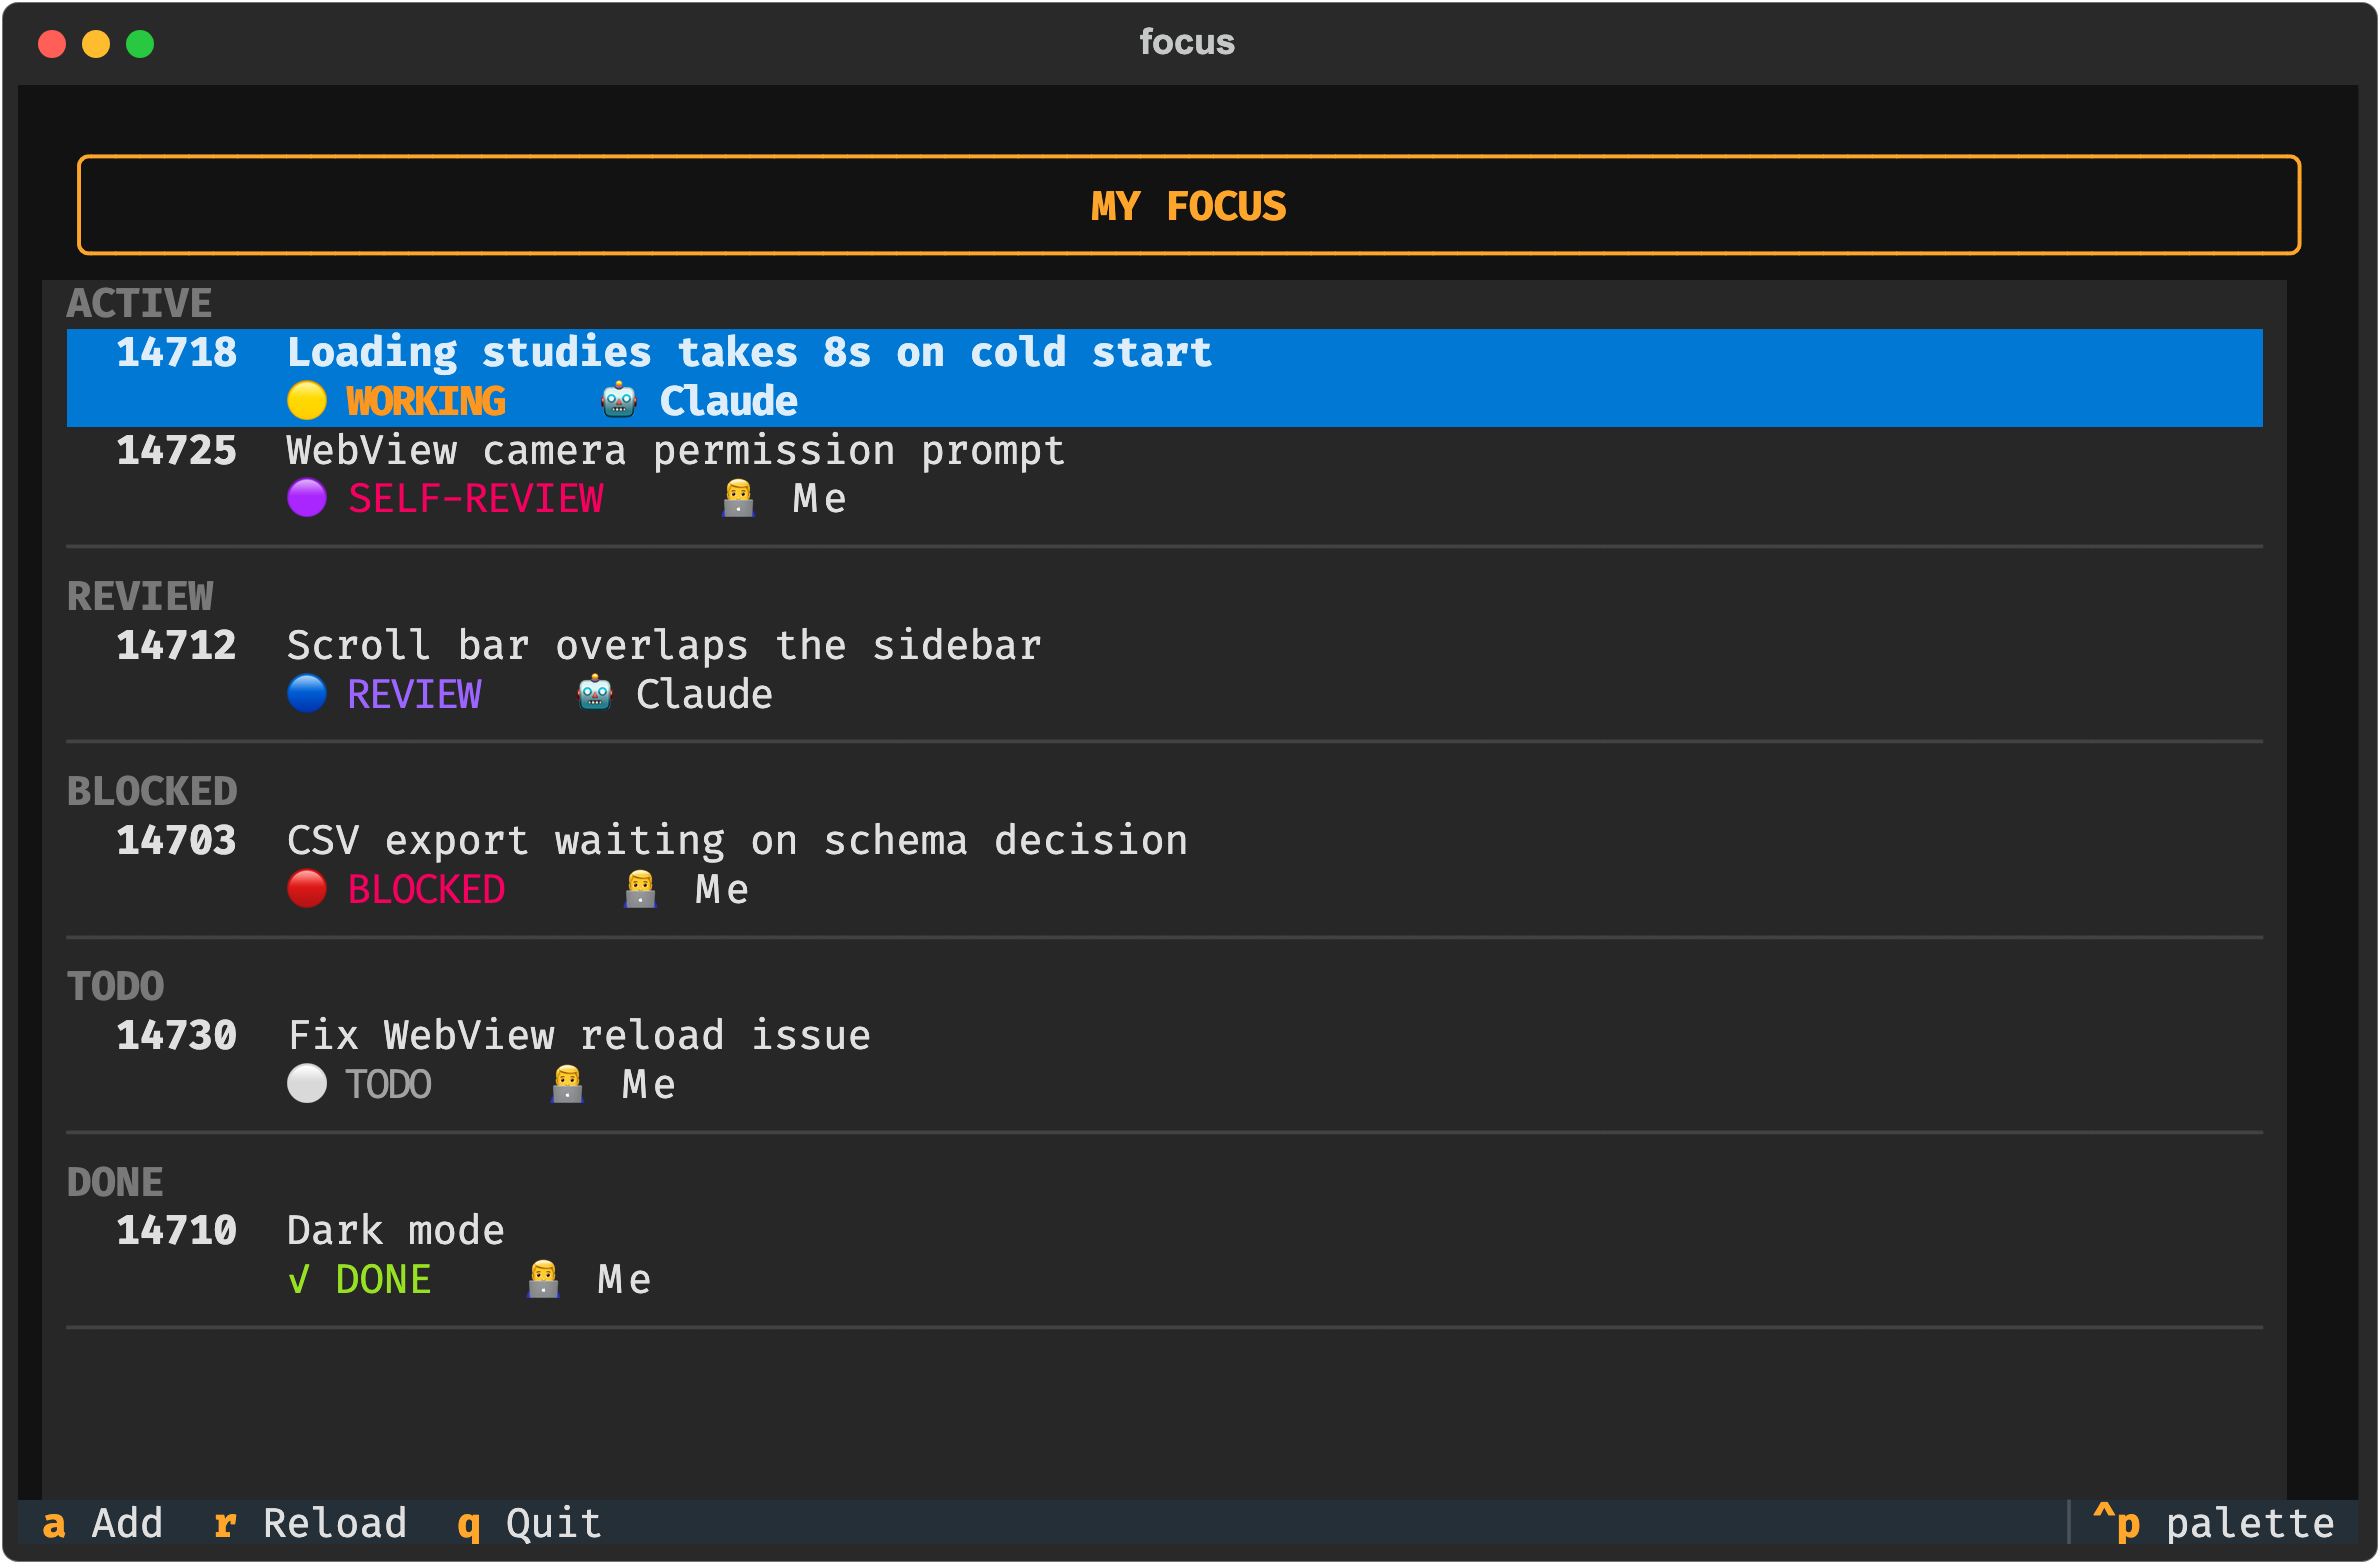
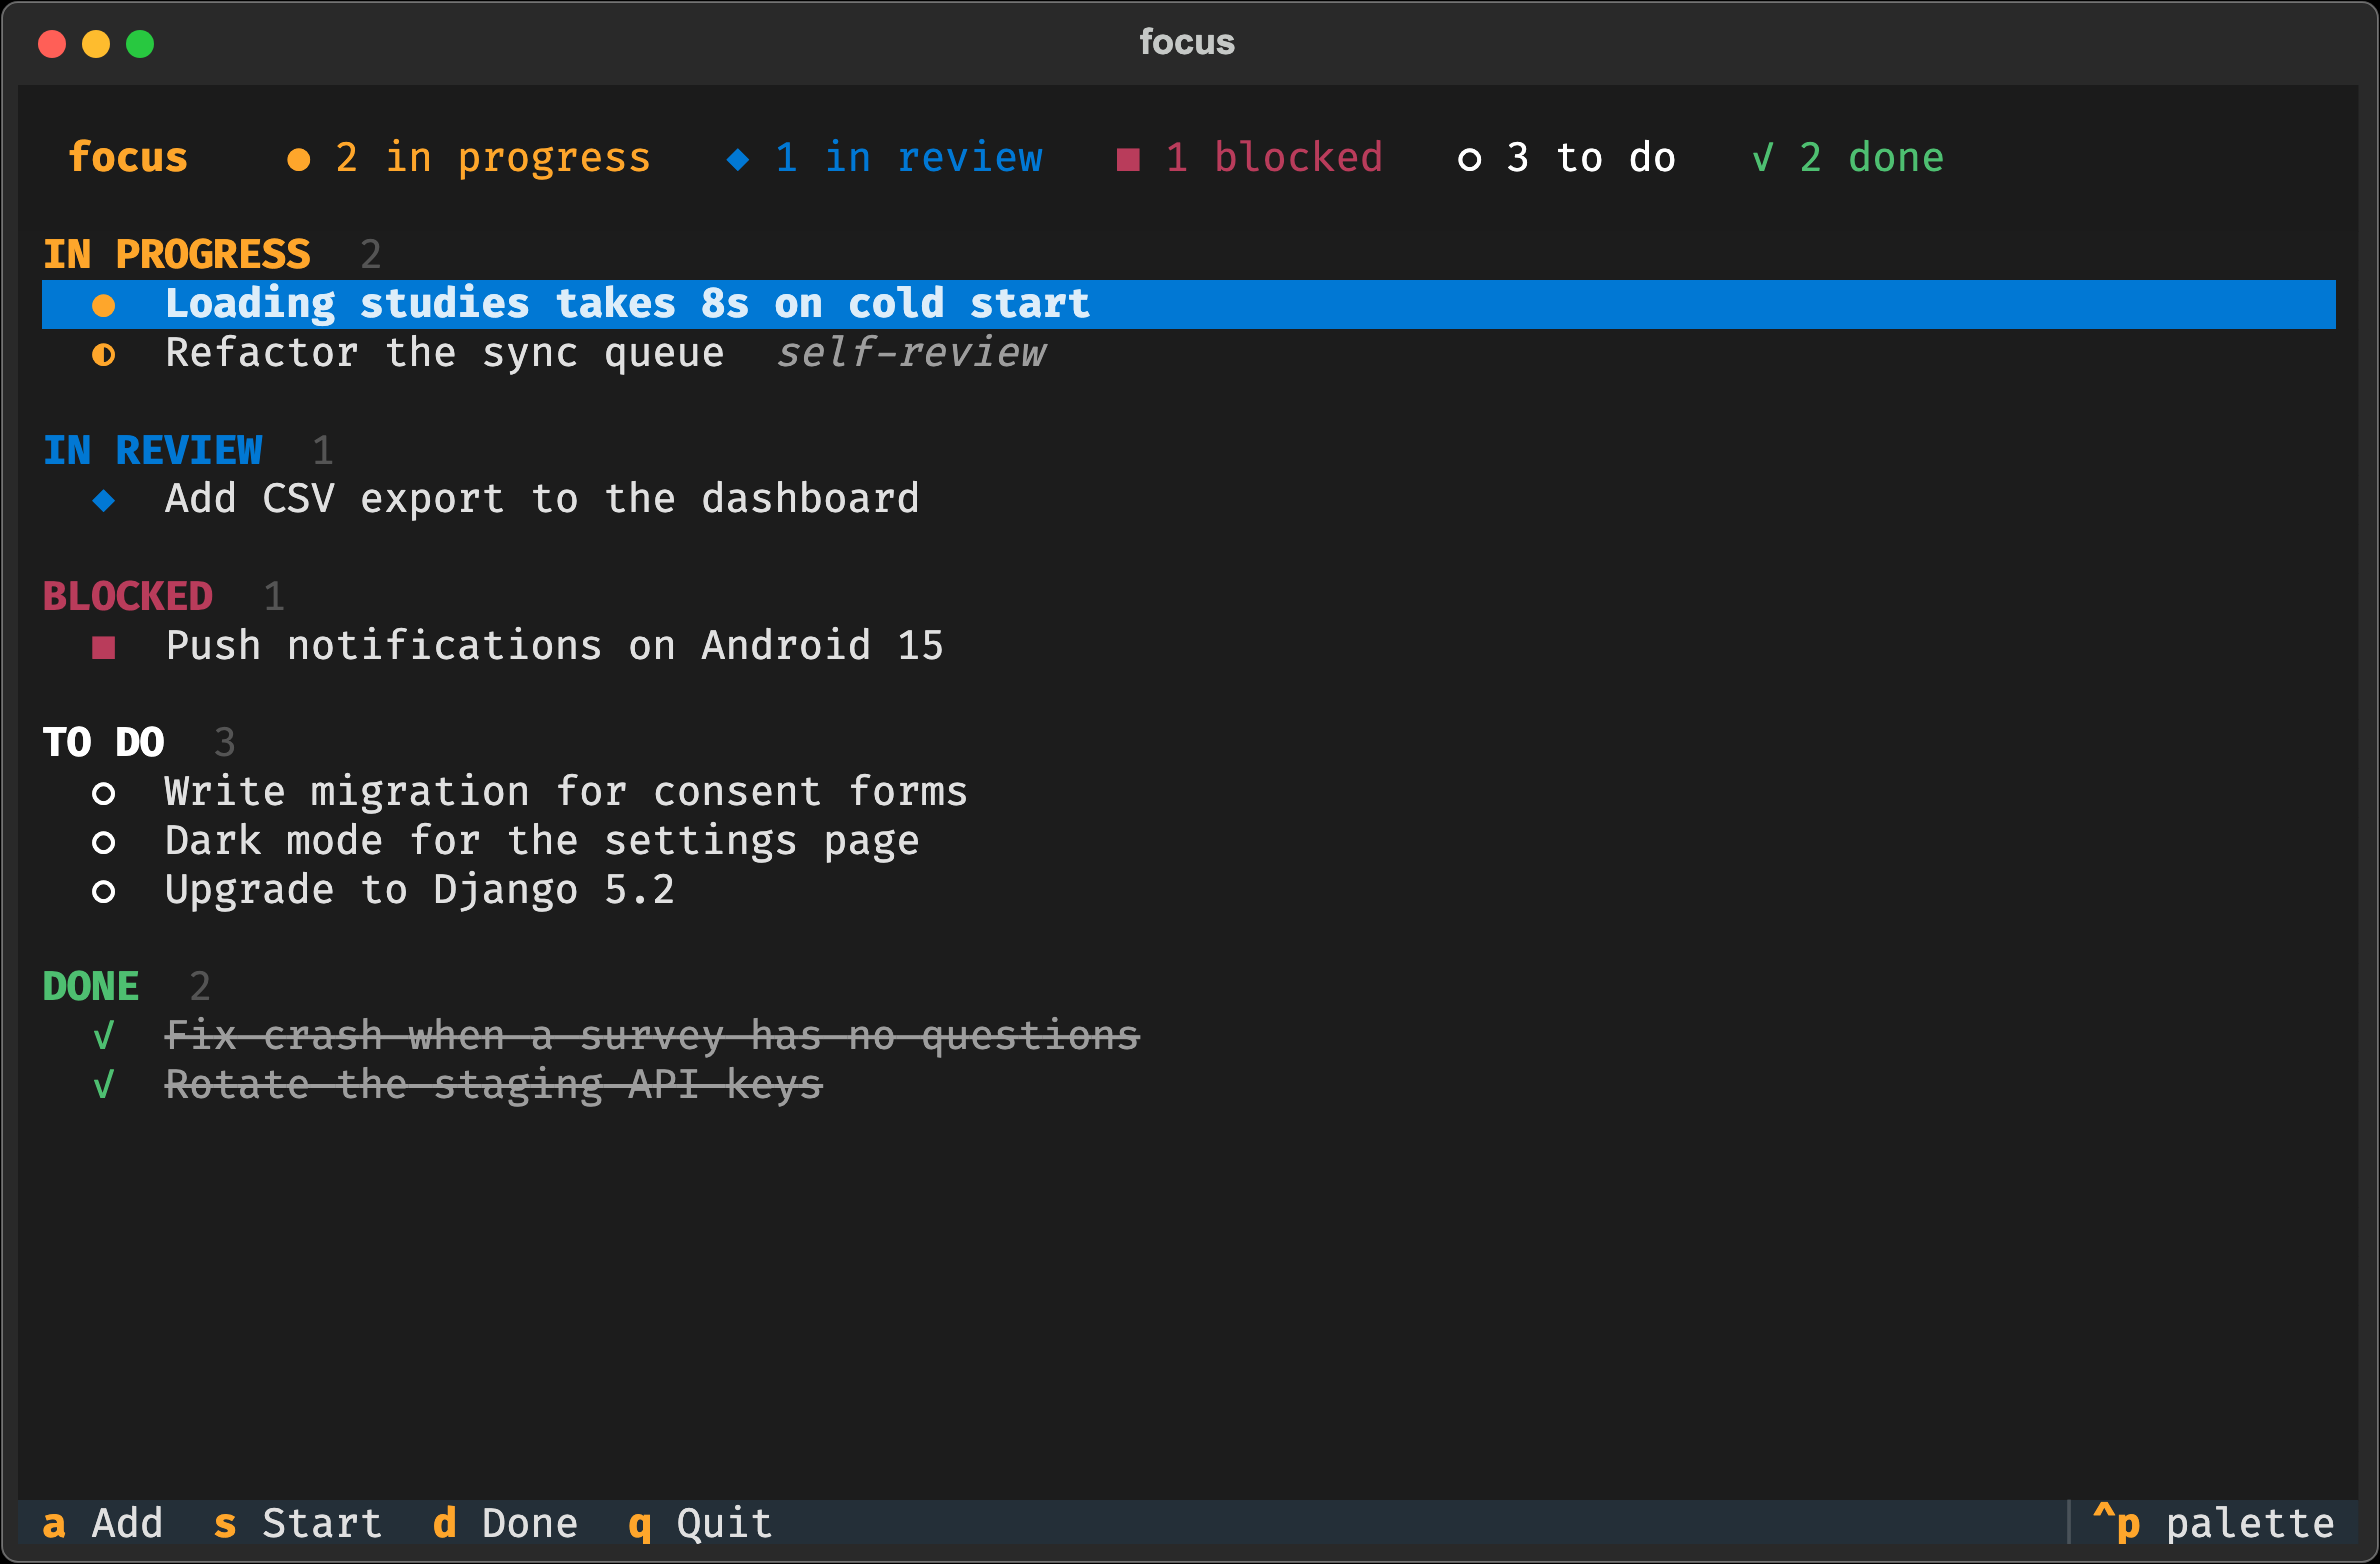
Update README and screenshots for the new board
Document the status keys, the picker, and title-based CLI commands, and
re-take every screenshot. The detail screenshot is replaced by the picker.

diff --git a/README.md b/README.md
@@ -35,16 +35,22 @@ focus block login
 Status commands take any unique part of a task's title, case-insensitive. If it
 matches more than one task, focus lists them and changes nothing.
 
-On the dashboard: `↑↓` navigate · `Enter` open · `a` add · `r` reload · `q` quit.
+The top line counts every group, so the whole board reads at a glance. Empty
+groups are hidden.
 
-### Task detail
+On the dashboard: `↑↓` navigate · `a` add · `r` reload · `q` quit.
 
-`Enter` on a task opens it. Every status is one keystroke away.
+### Moving a task
 
-![Task detail, showing status and the action buttons](docs/detail.png)
+Press a status key on the highlighted task — the highlight follows it to its new
+group:
 
-`s` start · `f` self-review · `v` review · `d` done · `b` block · `esc` back.
-The buttons are clickable too.
+`s` start · `f` self-review · `v` review · `b` block · `t` to do · `d` done
+
+Or press `Enter` to pick from a list, with the current status highlighted. The
+same keys work there; `esc` cancels.
+
+![The status picker over the board](docs/picker.png)
 
 ### Adding a task
 
